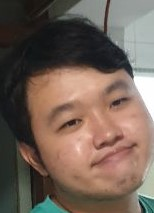
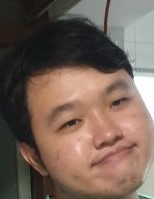
Aligning head

diff --git a/index.html b/index.html
@@ -1,6 +1,6 @@
 <title>Quan Wah's webpage </title>
 <br>
-    <img style='padding-left:200px' src='deadinside.jpg'></br>
+    <img style='padding-left:180px' src='deadinside.jpg'></br>
     <img src="766.jpg"></br>
     <iframe width="560" height="315" src="https://www.youtube.com/embed/YnSW8ian29w"></iframe>
     <h1>This is ME!</h1>
